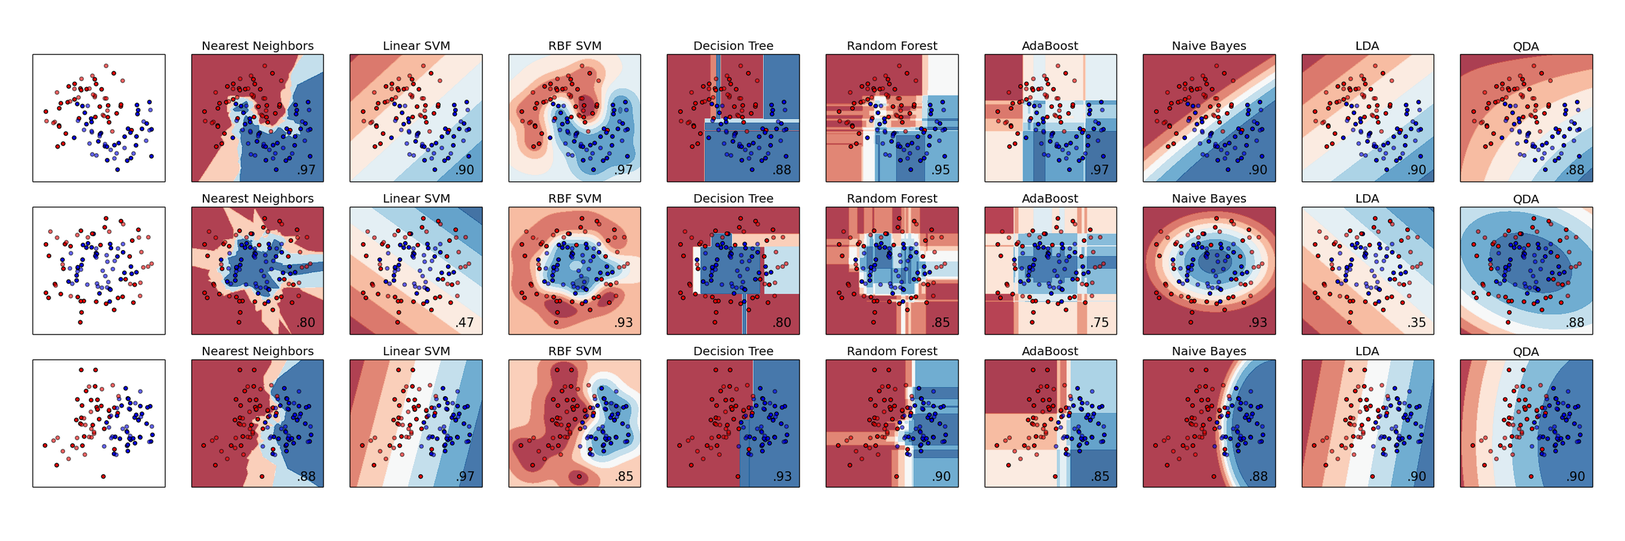
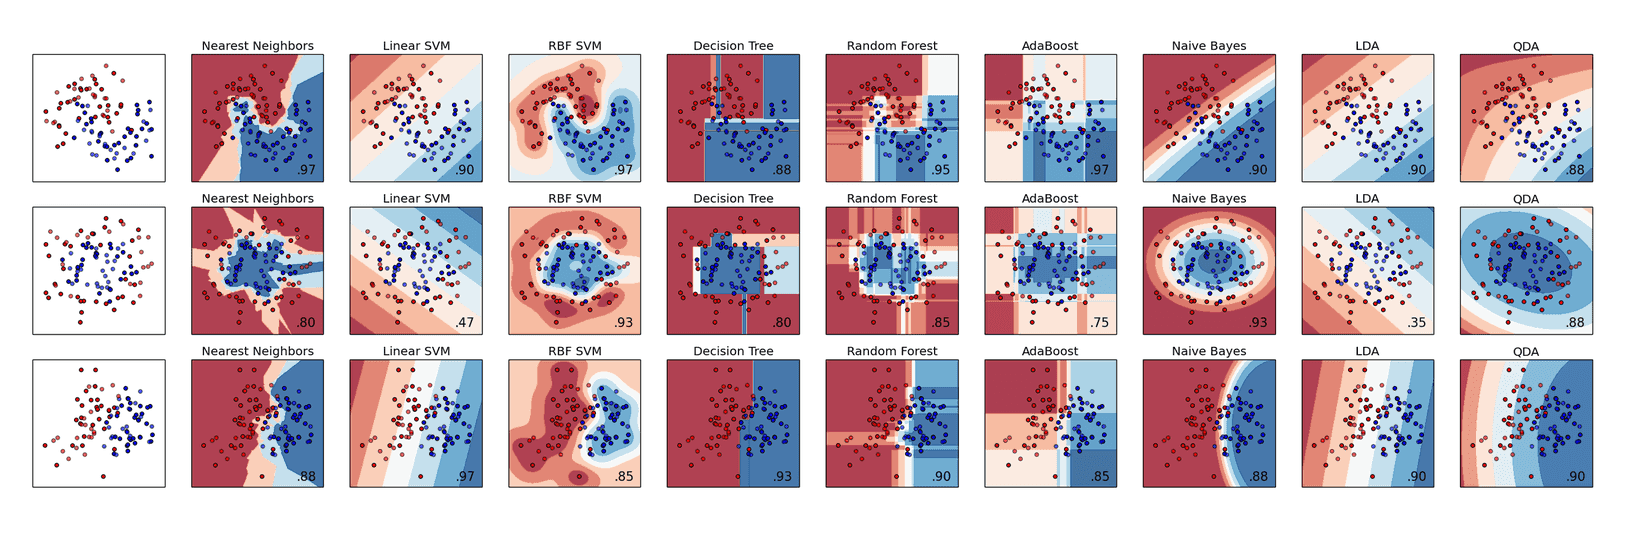
updated master with recompiled png

diff --git a/about/index.html b/about/index.html
@@ -37,7 +37,7 @@
   
   <body> 
     <div id="coverImage"></div>
-  <div class="hero" style="background-image: url('/images/cover_images/jefferys_banner.jpg')">
+  <div class="hero" style="background-image: url('/images/cover_images/jefferys_banner.png')">
     <h1 class="display_title">Douglas Duhaime</h1>
   </div>
 

diff --git a/all_posts.html b/all_posts.html
@@ -37,7 +37,7 @@
   
   <body> 
     <div id="coverImage"></div>
-  <div class="hero" style="background-image: url('/images/cover_images/jefferys_banner.jpg')">
+  <div class="hero" style="background-image: url('/images/cover_images/jefferys_banner.png')">
     <h1 class="display_title">Douglas Duhaime</h1>
   </div>
 

diff --git a/index.html b/index.html
@@ -37,7 +37,7 @@
   
   <body> 
     <div id="coverImage"></div>
-  <div class="hero" style="background-image: url('/images/cover_images/jefferys_banner.jpg')">
+  <div class="hero" style="background-image: url('/images/cover_images/jefferys_banner.png')">
     <h1 class="display_title">Douglas Duhaime</h1>
   </div>
 

diff --git a/posts/clustering-semantic-vectors.html b/posts/clustering-semantic-vectors.html
@@ -37,7 +37,7 @@
   
   <body> 
     <div id="coverImage"></div>
-  <div class="hero" style="background-image: url('/images/cover_images/jefferys_banner.jpg')">
+  <div class="hero" style="background-image: url('/images/cover_images/jefferys_banner.png')">
     <h1 class="display_title">Douglas Duhaime</h1>
   </div>
 

diff --git a/posts/crosslingual-plagiarism-detection.html b/posts/crosslingual-plagiarism-detection.html
@@ -37,7 +37,7 @@
   
   <body> 
     <div id="coverImage"></div>
-  <div class="hero" style="background-image: url('/images/cover_images/jefferys_banner.jpg')">
+  <div class="hero" style="background-image: url('/images/cover_images/jefferys_banner.png')">
     <h1 class="display_title">Douglas Duhaime</h1>
   </div>
 

diff --git a/posts/mapping-the-early-english-book-trade.html b/posts/mapping-the-early-english-book-trade.html
@@ -37,7 +37,7 @@
   
   <body> 
     <div id="coverImage"></div>
-  <div class="hero" style="background-image: url('/images/cover_images/jefferys_banner.jpg')">
+  <div class="hero" style="background-image: url('/images/cover_images/jefferys_banner.png')">
     <h1 class="display_title">Douglas Duhaime</h1>
   </div>
 

diff --git a/secret/index.html b/secret/index.html
@@ -37,7 +37,7 @@
   
   <body> 
     <div id="coverImage"></div>
-  <div class="hero" style="background-image: url('/images/cover_images/jefferys_banner.jpg')">
+  <div class="hero" style="background-image: url('/images/cover_images/jefferys_banner.png')">
     <h1 class="display_title">Douglas Duhaime</h1>
   </div>
 
